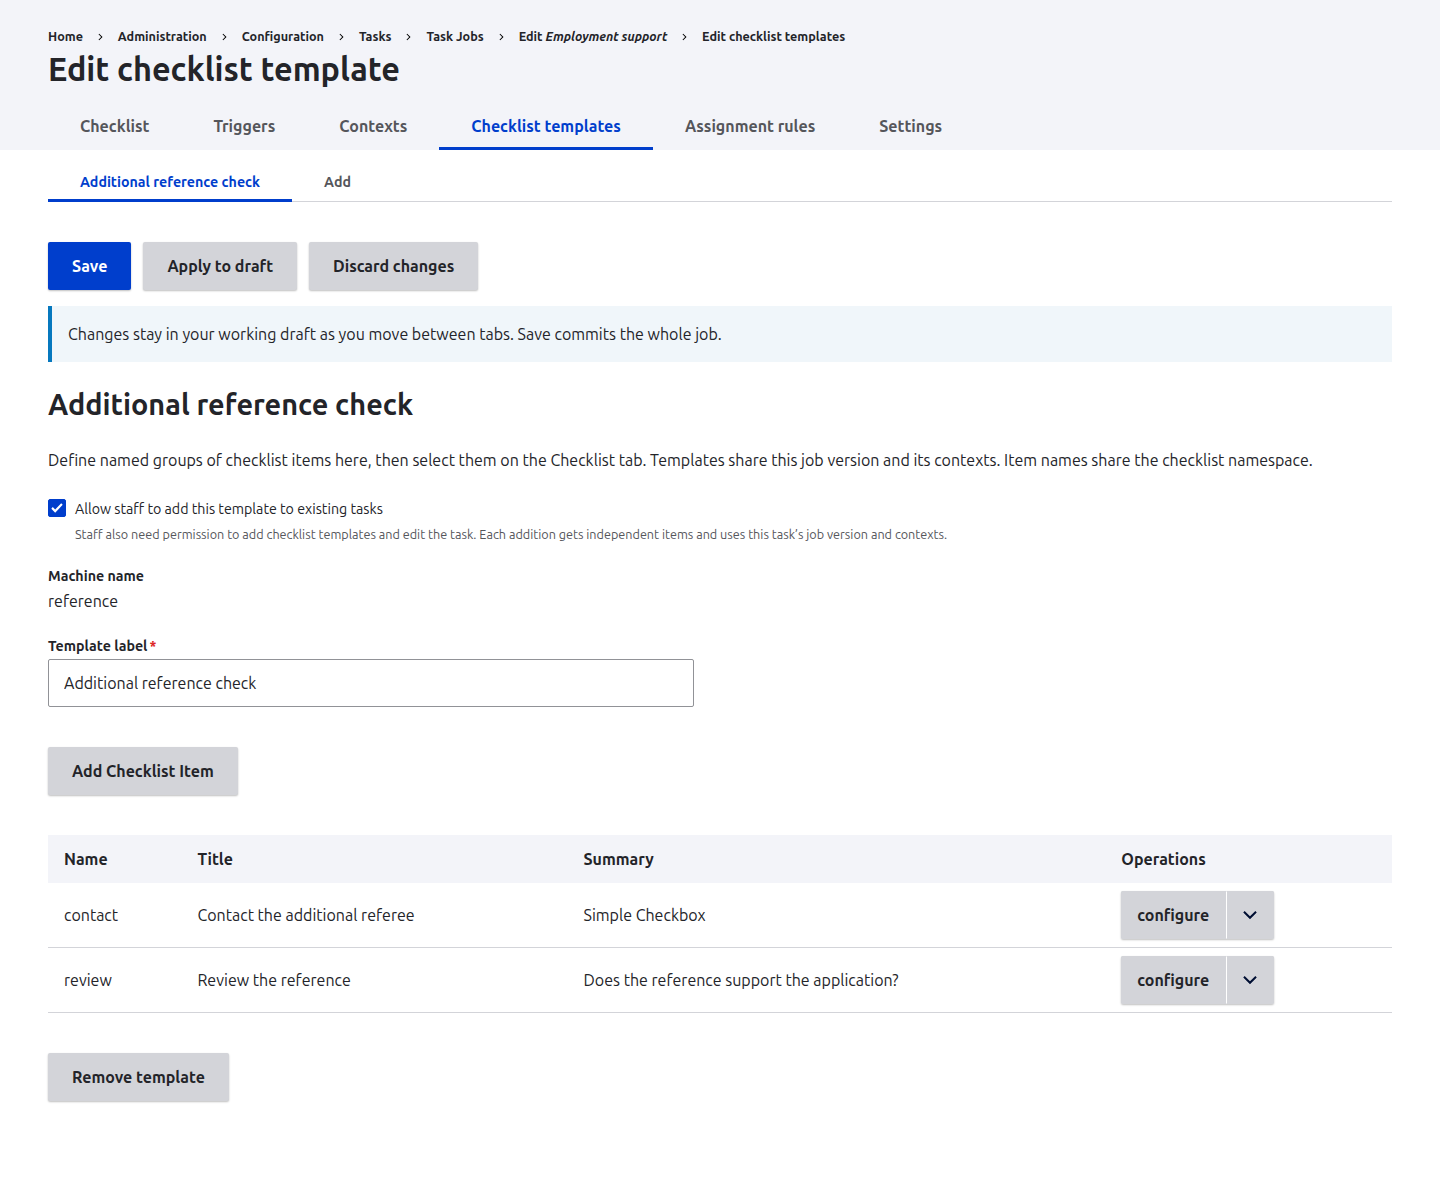
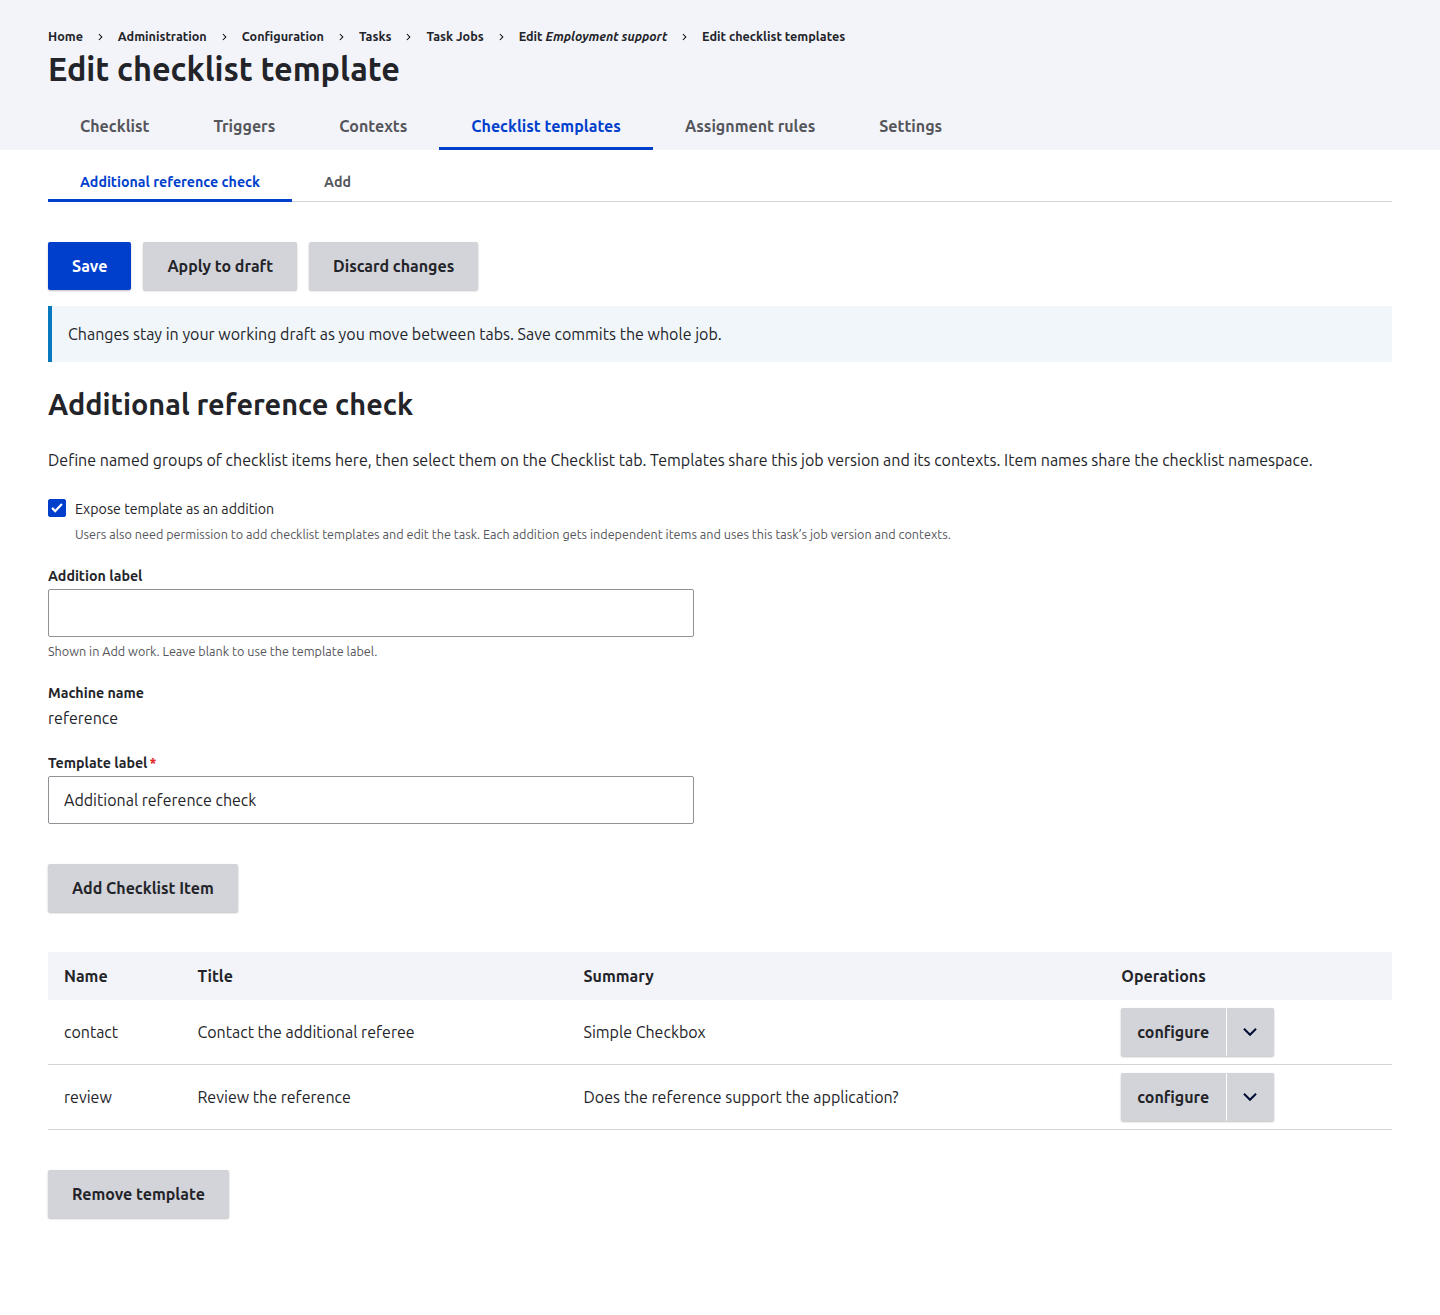
feat(task_job): name exposed additions independently of templates

diff --git a/modules/data/task/contrib/job/contrib/additions/tests/src/Functional/AddWorkTest.php b/modules/data/task/contrib/job/contrib/additions/tests/src/Functional/AddWorkTest.php
@@ -62,18 +62,22 @@ class AddWorkTest extends BrowserTestBase {
   public function testAuthorAndAddWork(): void {
     $url = '/admin/config/task/job/support/edit/templates/review';
     $this->drupalGet($url);
-    $this->submitForm(['templates[review][allow_addition]' => TRUE], 'Apply to draft');
+    $this->submitForm([
+      'templates[review][allow_addition]' => TRUE,
+      'templates[review][addition_label]' => 'Request an evidence review',
+    ], 'Apply to draft');
     $storage = $this->container->get('entity_type.manager')->getStorage('task_job');
     $this->assertFalse($storage->loadUnchanged('support')->get('checklist_templates')['review']['allow_addition']);
     $this->clickLink('Settings');
     $this->drupalGet($url);
     $this->assertSession()->checkboxChecked('templates[review][allow_addition]');
+    $this->assertSession()->fieldValueEquals('templates[review][addition_label]', 'Request an evidence review');
     $this->submitForm([], 'Save');
     $this->assertTrue($storage->loadUnchanged('support')->get('checklist_templates')['review']['allow_addition']);
     $task = Task::create(['title' => 'Review task', 'job' => 'support', 'start' => '2000-01-01T00:00:00']);
     $task->save();
     $this->drupalGet($task->toUrl());
-    $this->assertSession()->fieldExists('template');
+    $this->assertSession()->optionExists('template', 'Request an evidence review');
     $request_id = $this->assertSession()->elementExists('css', 'input[name=request_id]')->getValue();
     $this->submitForm(['template' => 'review'], 'Add selected work');
     $this->assertSession()->pageTextContains('The checklist work has been added.');

diff --git a/modules/data/task/contrib/job/contrib/additions/src/AdditionManager.php b/modules/data/task/contrib/job/contrib/additions/src/AdditionManager.php
@@ -76,7 +76,7 @@ class AdditionManager {
     $templates = [];
     foreach ($job->get('checklist_templates') ?: [] as $name => $definition) {
       if (!empty($definition['allow_addition']) && !empty($definition['items'])) {
-        $templates[$name] = ['label' => $definition['label']];
+        $templates[$name] = ['label' => trim($definition['addition_label'] ?? '') ?: $definition['label']];
       }
     }
     return ['templates' => $templates, 'additions' => array_values($this->storage->forTask($task->uuid()))];

diff --git a/modules/data/task/contrib/job/contrib/additions/README.md b/modules/data/task/contrib/job/contrib/additions/README.md
@@ -1,7 +1,8 @@
 # Add reusable job work to an existing task
 
 Enable `task_job_additions`. In a job's **Checklist templates** tab, open a
-named template and select **Allow staff to add this template to existing tasks**.
+named template and select **Expose template as an addition**. Set an optional **Addition label** for the
+Add work selector; leave it blank to use the template label.
 The option is part of the shared job draft: Apply keeps it in the draft; Save
 publishes it alongside the rest of that job version.
 
